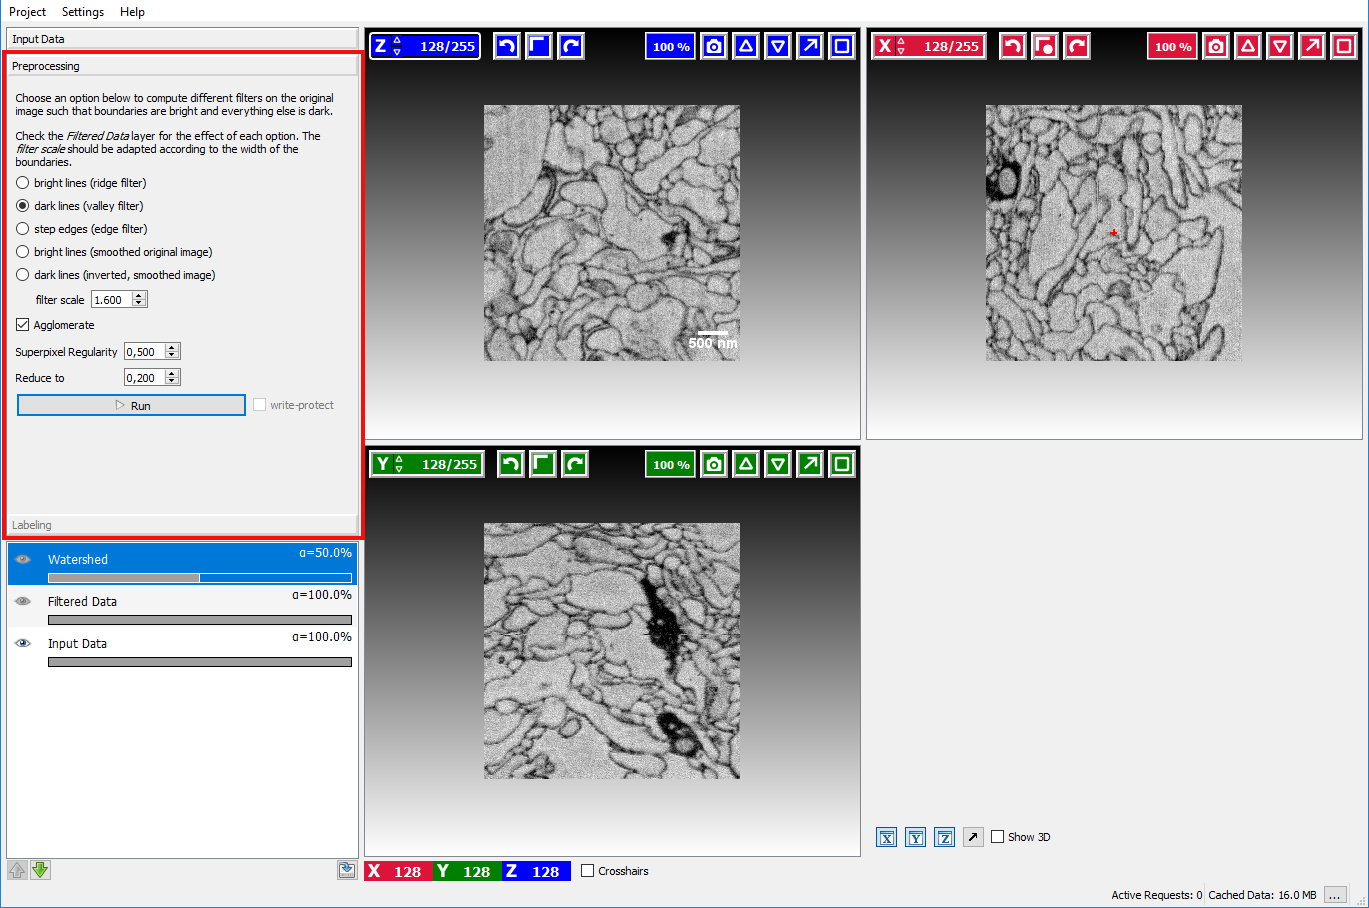
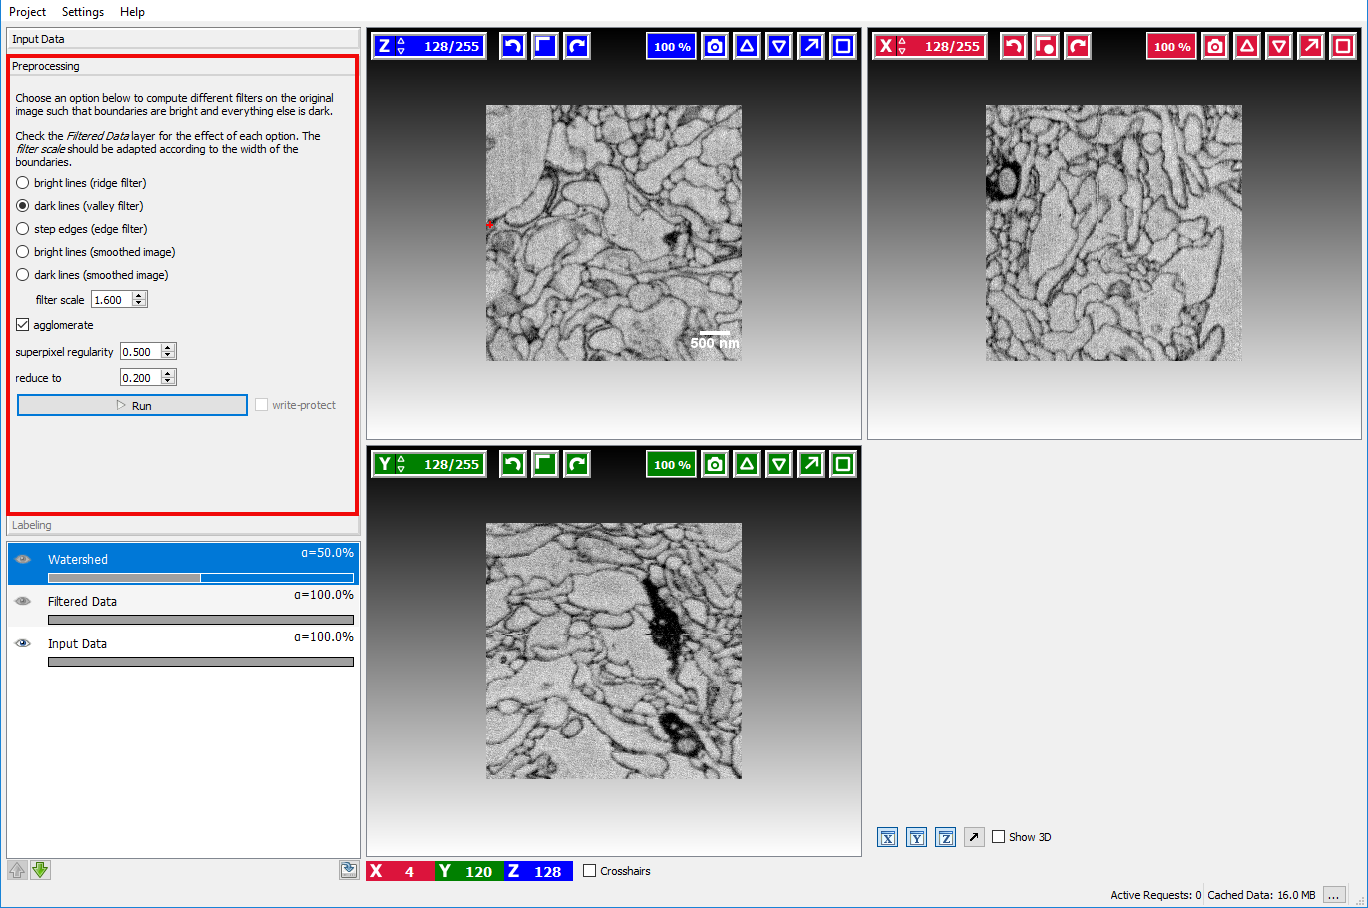
Update preprocessing screenshots add window leveling mention/screen

diff --git a/documentation/carving/carving.md b/documentation/carving/carving.md
@@ -68,8 +68,8 @@ Here the user can select how boundaries are represented in the image.
 * Bright lines
 * Dark lines
 * Step edges: if the boundaries in the image appear as a transition from a bright to a dark region.
-* Original image: if the loaded image is already a boundary map, where bright pixels correspond to an image boundary.
-* Inverted Original image: if the loaded image is already a boundary map, where dark pixels correspond to an image boundary.
+* Bright lines (smoothed image): if the loaded image is already a boundary map, where bright pixels correspond to an image boundary.
+* Dark lines (smoothed image): if the loaded image is already a boundary map, where dark pixels correspond to an image boundary.
 
 In the example image above, a good boundary choice would clearly be **dark lines**.
 
@@ -111,6 +111,7 @@ Additional available interactions include:
 
 - **Updating the segmentation:** Left click on button **Segment**
 - **Erasing a brush stroke:** Change brush mode to eraser by clicking on the eraser button
+- **Window Leveling** Change brush mode by clicking on window leveling tool button <img src="/documentation/basics/screenshots/window_leveling.png" />
 - **Changing the active seed type:** Left Mouse click on seed in the left-hand side seed list.
 - **Changing the color of a seed type:** Right Mouse click on the corresponding seed in the seed list and select **Change Color**.
 - **Erasing all markers:** Click on the  **Clear**.button next to the segment button.
